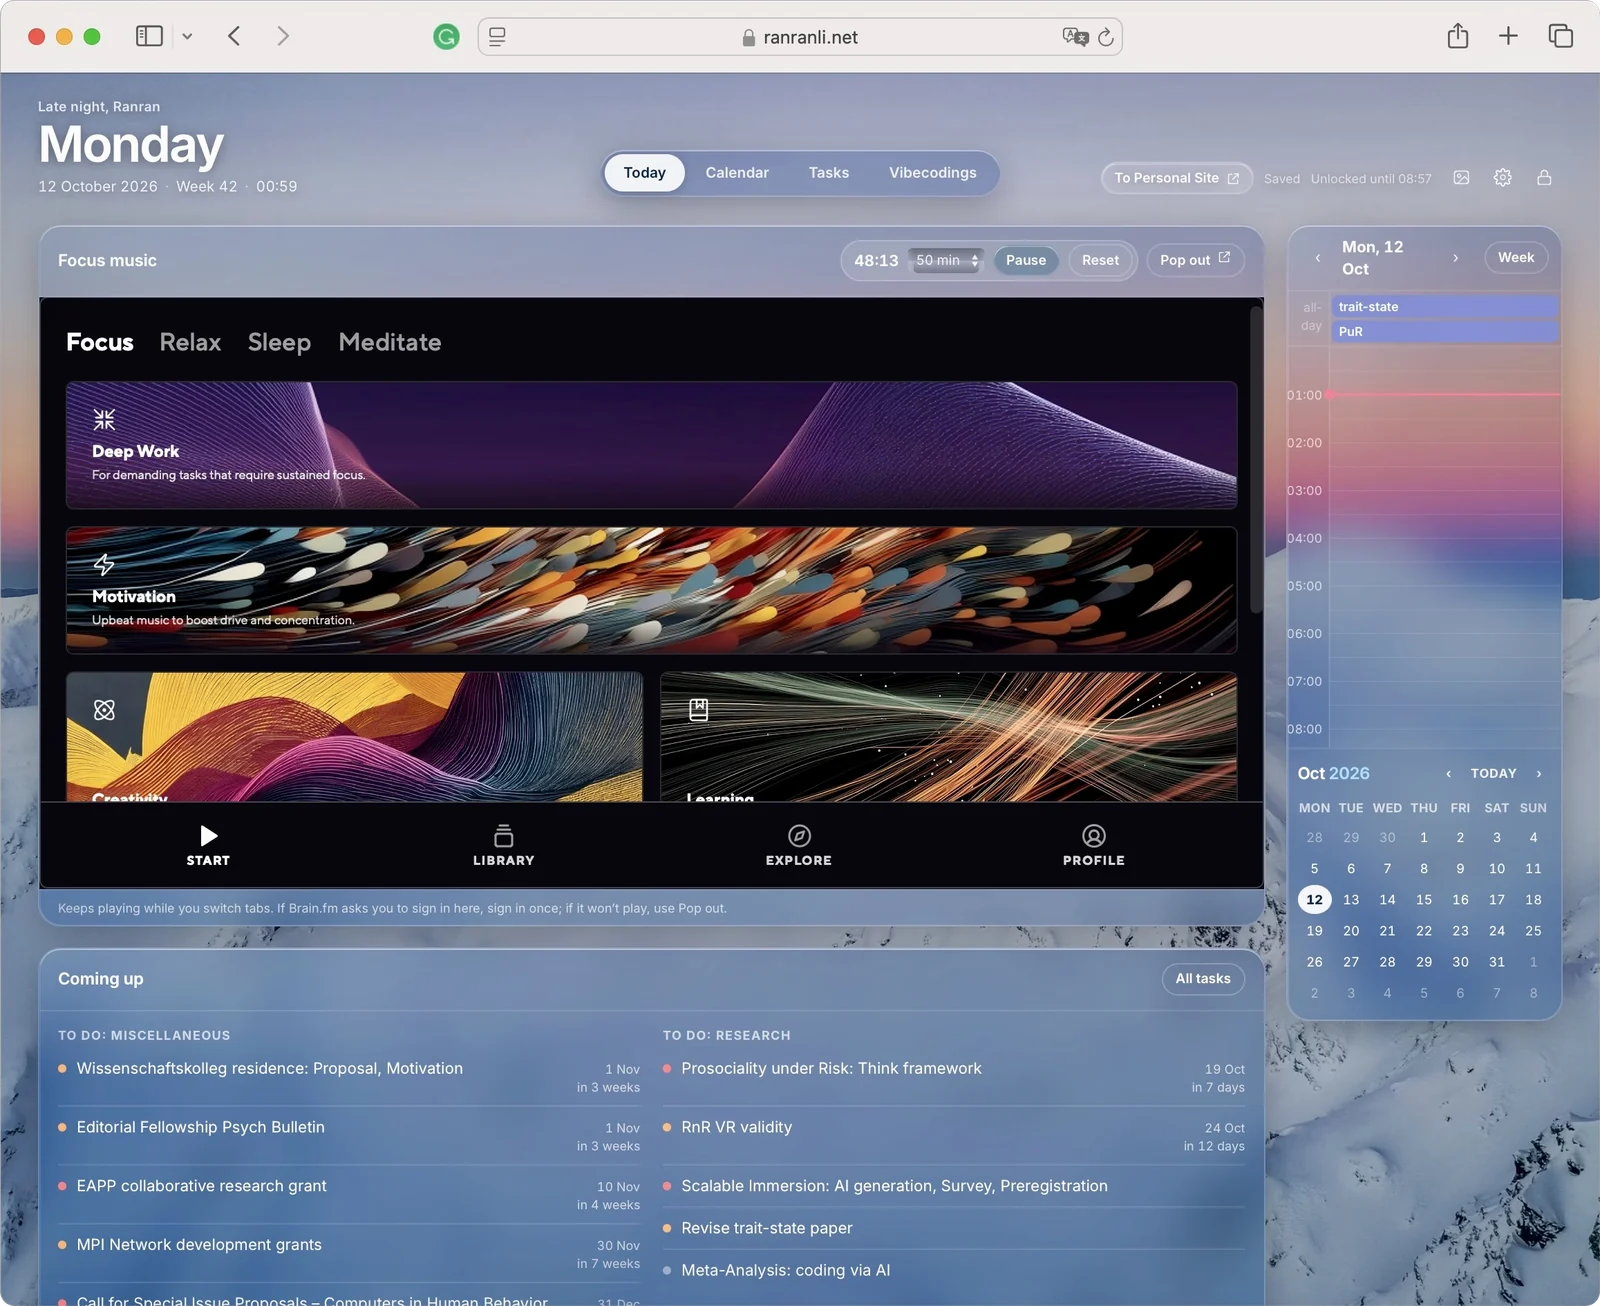
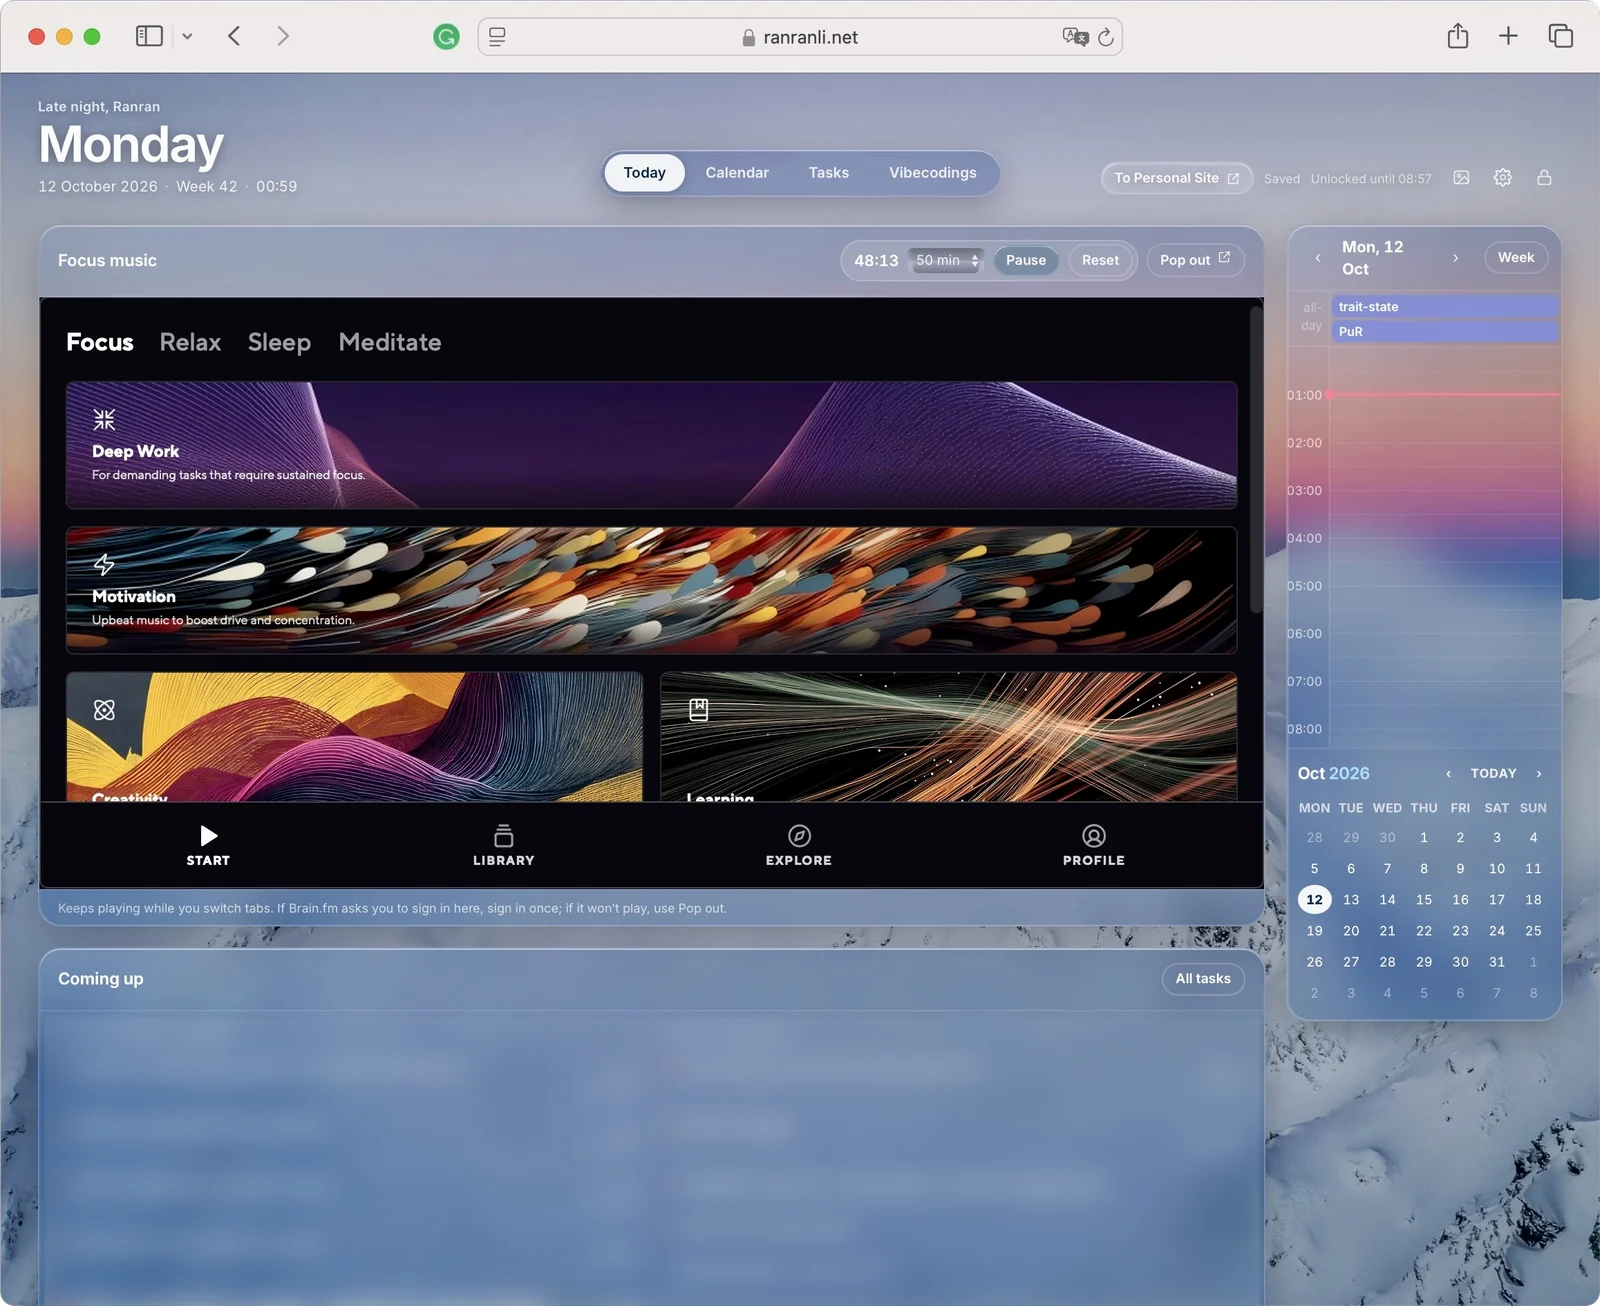
Exhibition: darker title capsule; blur the Coming up lists in the launchpad screenshot
Claude-Session: https://claude.ai/code/session_01VU58C7U931dSNSJ6T6iguu

diff --git a/exhibition.html b/exhibition.html
@@ -37,8 +37,8 @@
                         <div class="exhibition-sticker-body">
                             <p>Ranran made herself an amazing daily launchpad. Keep motivated and prepared for ascension! (Bribe her if you want a similar launchpad :)</p>
                         </div>
-                        <a class="exhibition-video exhibition-shot" href="./assets/launchpad-preview.webp?v=20261012" target="_blank" rel="noopener" aria-label="Open a full-size screenshot of the launchpad (opens in a new tab)">
-                            <img src="./assets/launchpad-preview.webp?v=20261012" alt="Ranran's daily launchpad in a browser: the day and date over a snowy mountain dusk, Today, Calendar, Tasks and Vibecodings tabs, a focus-music player, a day calendar and lists of upcoming to-dos" loading="lazy" width="1600" height="1306">
+                        <a class="exhibition-video exhibition-shot" href="./assets/launchpad-preview.webp?v=20261012b" target="_blank" rel="noopener" aria-label="Open a full-size screenshot of the launchpad (opens in a new tab)">
+                            <img src="./assets/launchpad-preview.webp?v=20261012b" alt="Ranran's daily launchpad in a browser: the day and date over a snowy mountain dusk, Today, Calendar, Tasks and Vibecodings tabs, a focus-music player, a day calendar and lists of upcoming to-dos" loading="lazy" width="1600" height="1306">
                         </a>
                     </article>
                     <article class="exhibition-sticker exhibition-video-card">

diff --git a/custom_css/exhibition-glass.css b/custom_css/exhibition-glass.css
@@ -41,10 +41,10 @@
     border-radius: 999px;
     text-align: center;
     background:
-        linear-gradient(180deg, rgba(255, 255, 255, 0.11), rgba(255, 255, 255, 0.03)),
-        rgba(22, 30, 48, 0.16);
-    -webkit-backdrop-filter: blur(8px) saturate(150%);
-    backdrop-filter: blur(8px) saturate(150%);
+        linear-gradient(180deg, rgba(255, 255, 255, 0.07), rgba(255, 255, 255, 0.015)),
+        rgba(8, 12, 28, 0.62);
+    -webkit-backdrop-filter: blur(12px) saturate(140%);
+    backdrop-filter: blur(12px) saturate(140%);
     border: 1px solid rgba(255, 255, 255, 0.09);
     border-top-color: rgba(255, 255, 255, 0.2);
     box-shadow:
@@ -70,8 +70,8 @@
 .exhibition-titlebar:hover {
     transform: translateY(1px);
     background:
-        linear-gradient(180deg, rgba(255, 255, 255, 0.15), rgba(255, 255, 255, 0.05)),
-        rgba(22, 30, 48, 0.16);
+        linear-gradient(180deg, rgba(255, 255, 255, 0.1), rgba(255, 255, 255, 0.03)),
+        rgba(8, 12, 28, 0.62);
 }
 
 .exhibition-titlebar:focus-visible {
